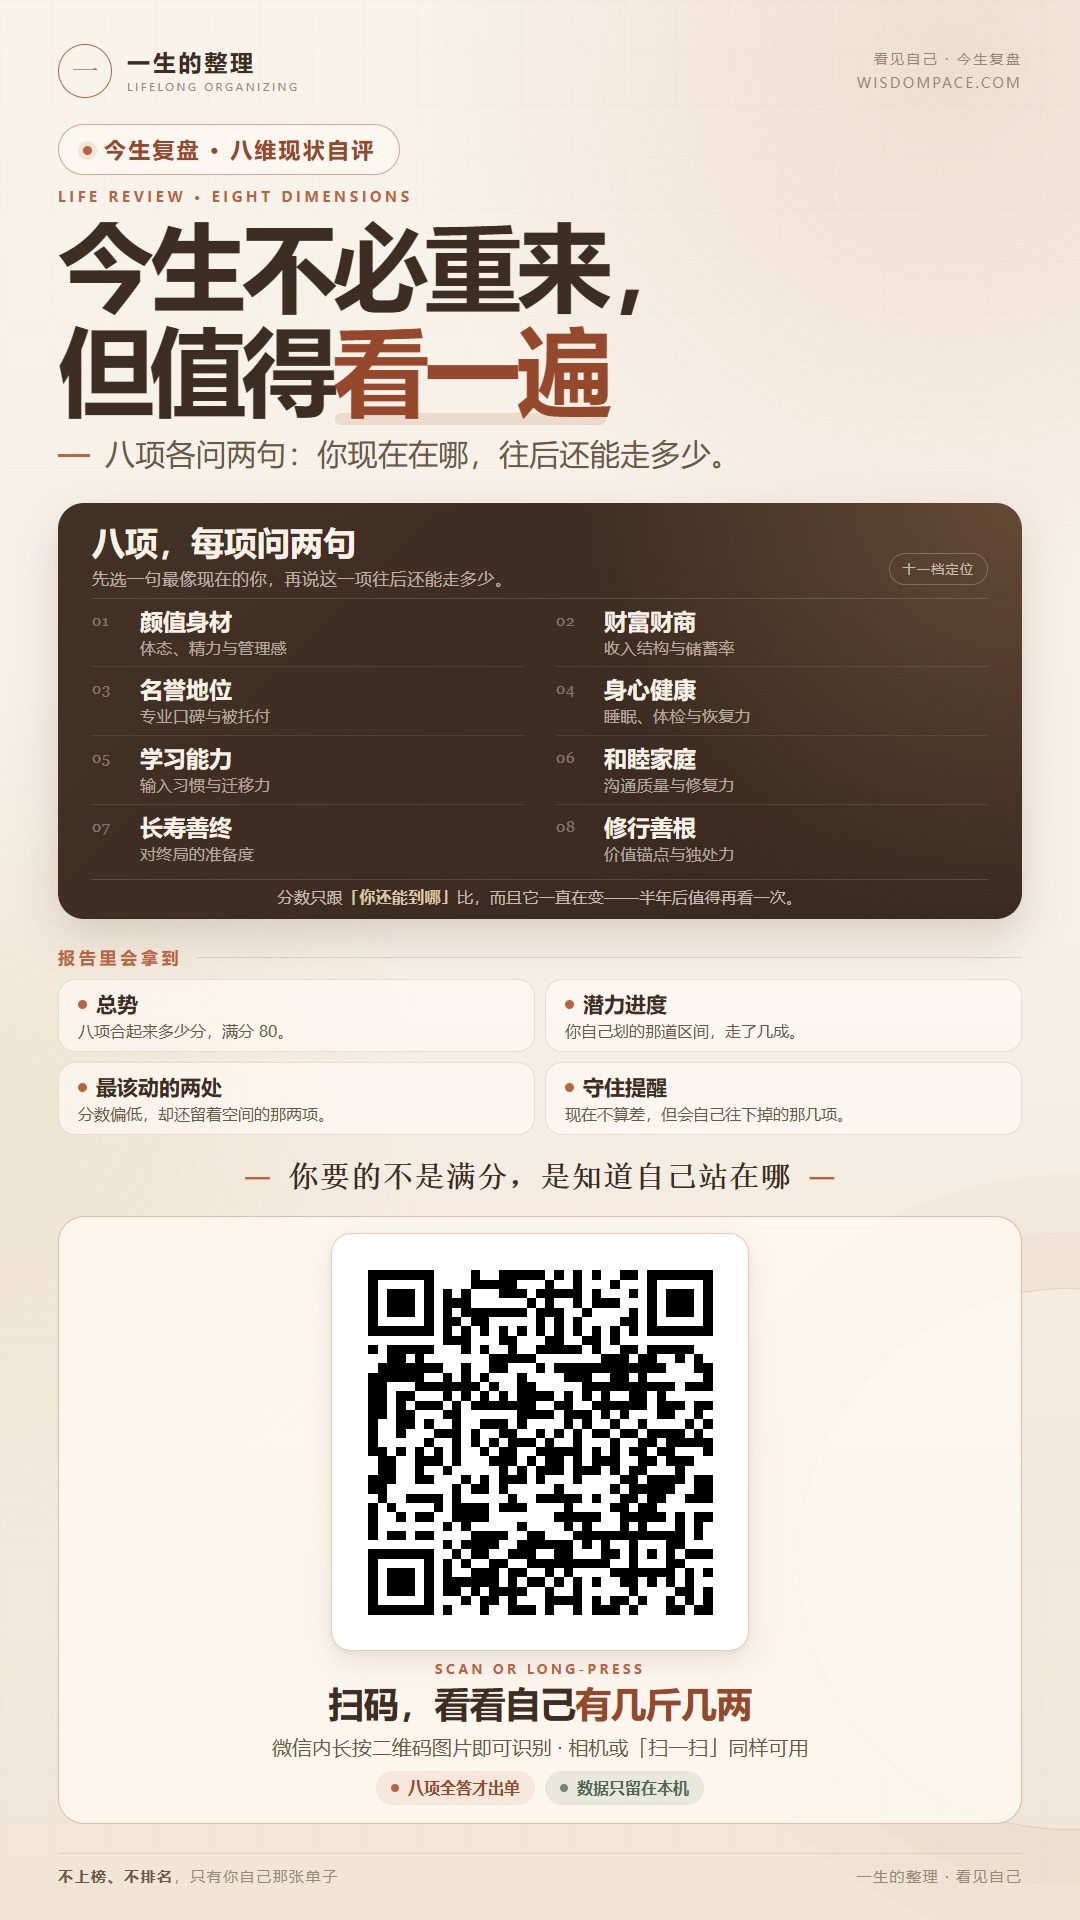
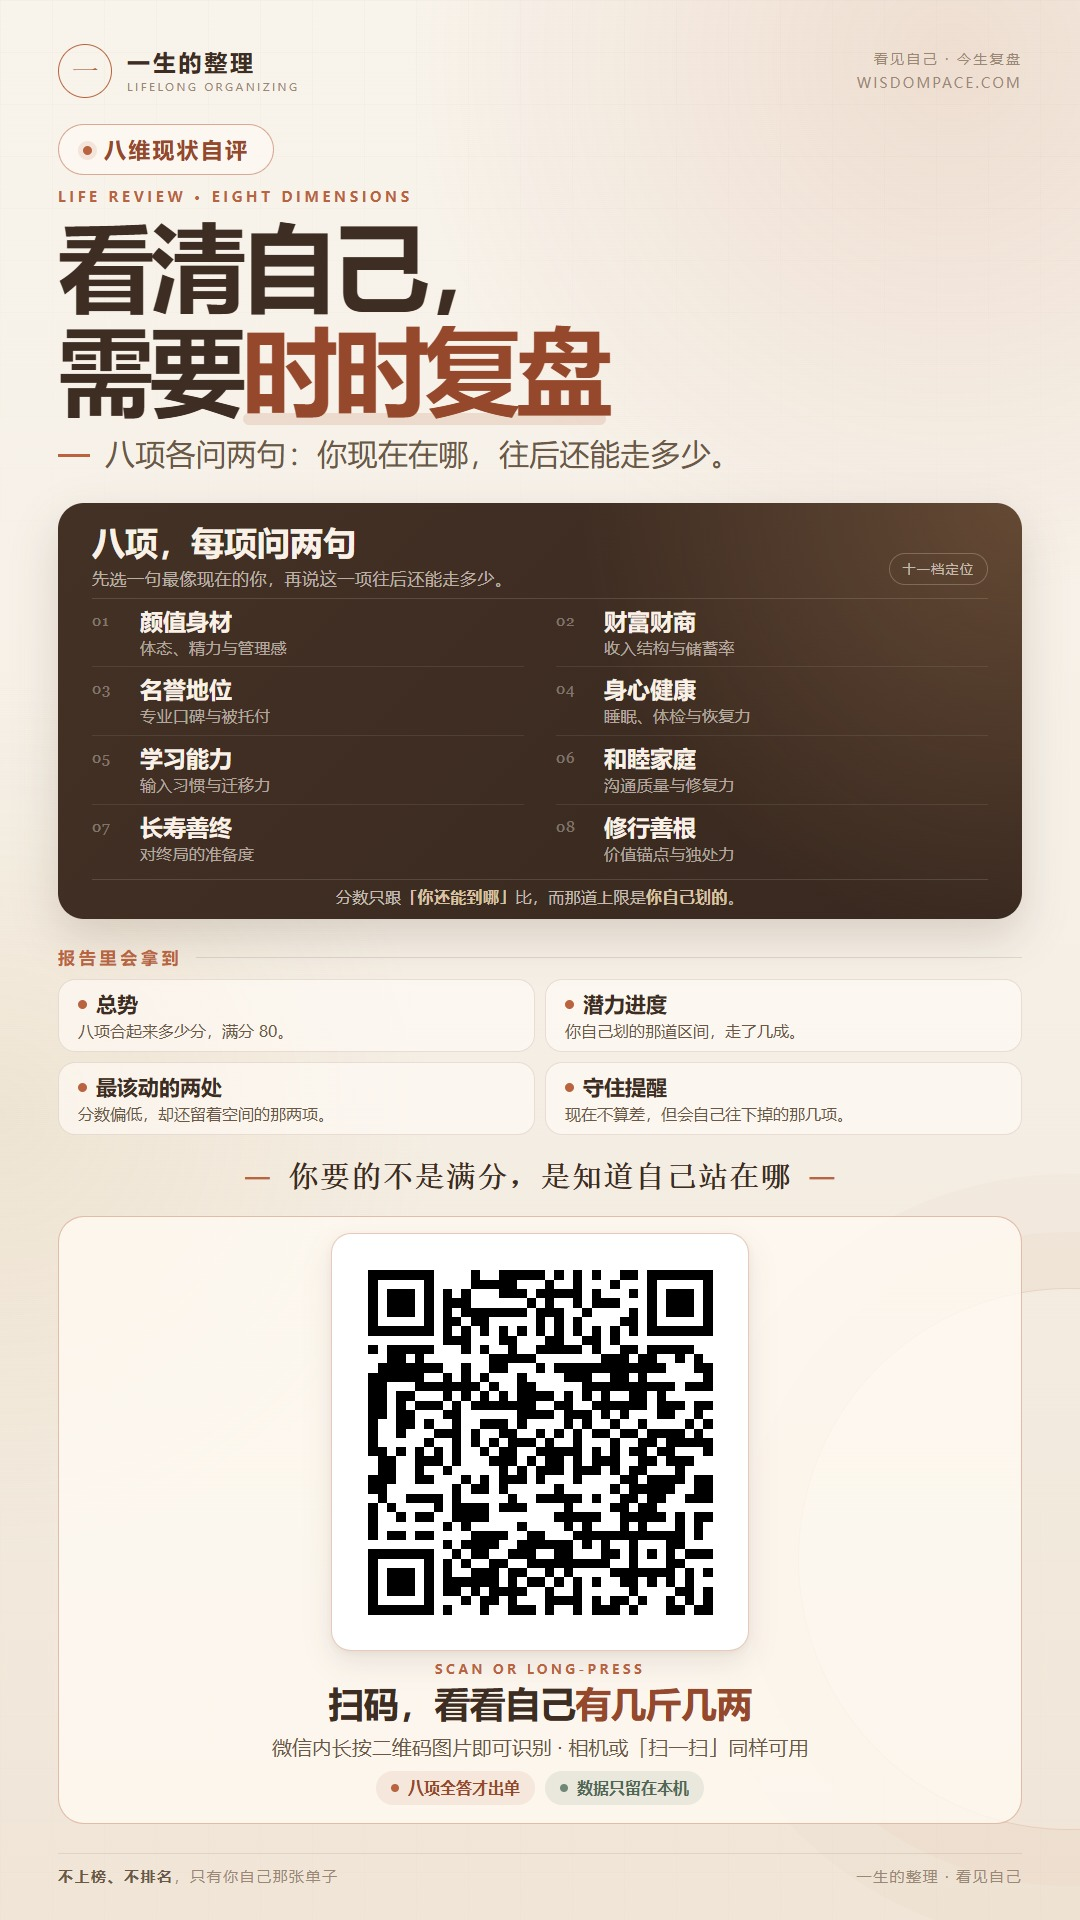
feat(posters): 今生复盘海报主标题改为「看清自己，需要时时复盘」
- h1 换成用户定稿的时时复盘语义，chip 去掉「今生复盘」避免与标题重复
- 深色卡脚注原「半年后值得再看一次」与该语义撞车，改为强调上限由自己划
- 重新渲染导出 1080x1920 PNG/JPG，二维码实测 400x400

diff --git a/posters/life-review-poster.html b/posters/life-review-poster.html
@@ -407,9 +407,9 @@
     </header>
 
     <section class="hero">
-      <div class="tool-chip"><span class="dot"></span>今生复盘 · 八维现状自评</div>
+      <div class="tool-chip"><span class="dot"></span>八维现状自评</div>
       <p class="kicker">LIFE REVIEW · EIGHT DIMENSIONS</p>
-      <h1>今生不必重来，<br />但值得<span class="accent">看一遍</span></h1>
+      <h1>看清自己，<br />需要<span class="accent">时时复盘</span></h1>
       <p class="slogan">八项各问两句：你现在在哪，往后还能走多少。</p>
     </section>
 
@@ -479,7 +479,7 @@
           </div>
         </div>
       </div>
-      <p class="stage-foot">分数只跟<strong>「你还能到哪」</strong>比，而且它一直在变——半年后值得再看一次。</p>
+      <p class="stage-foot">分数只跟<strong>「你还能到哪」</strong>比，而那道上限是<strong>你自己划的</strong>。</p>
     </section>
 
     <section class="feature-block">
